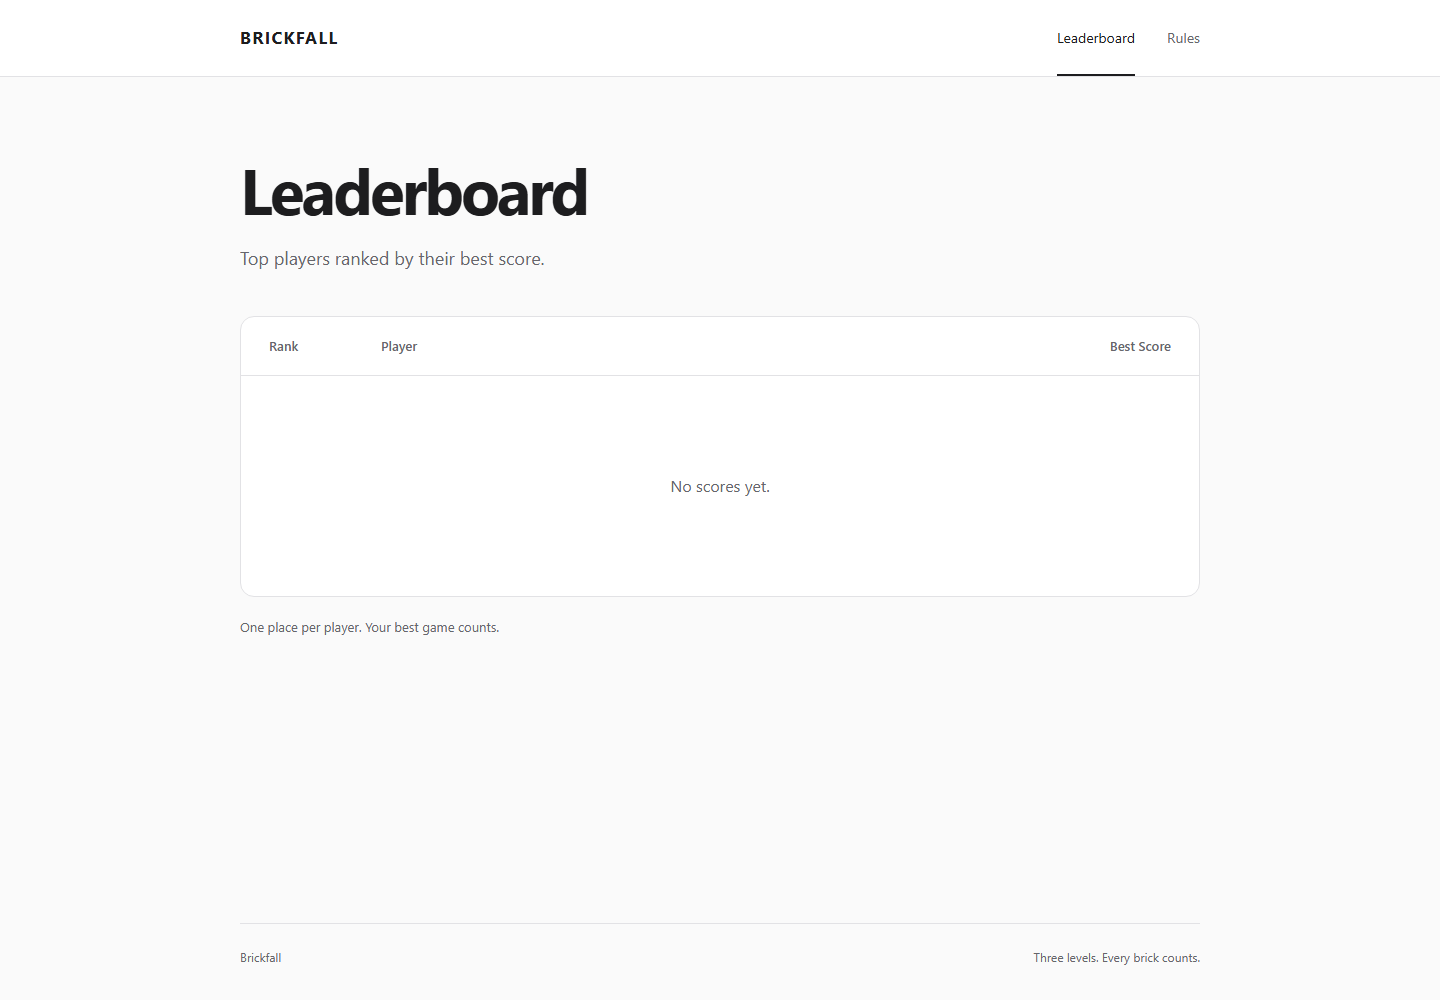
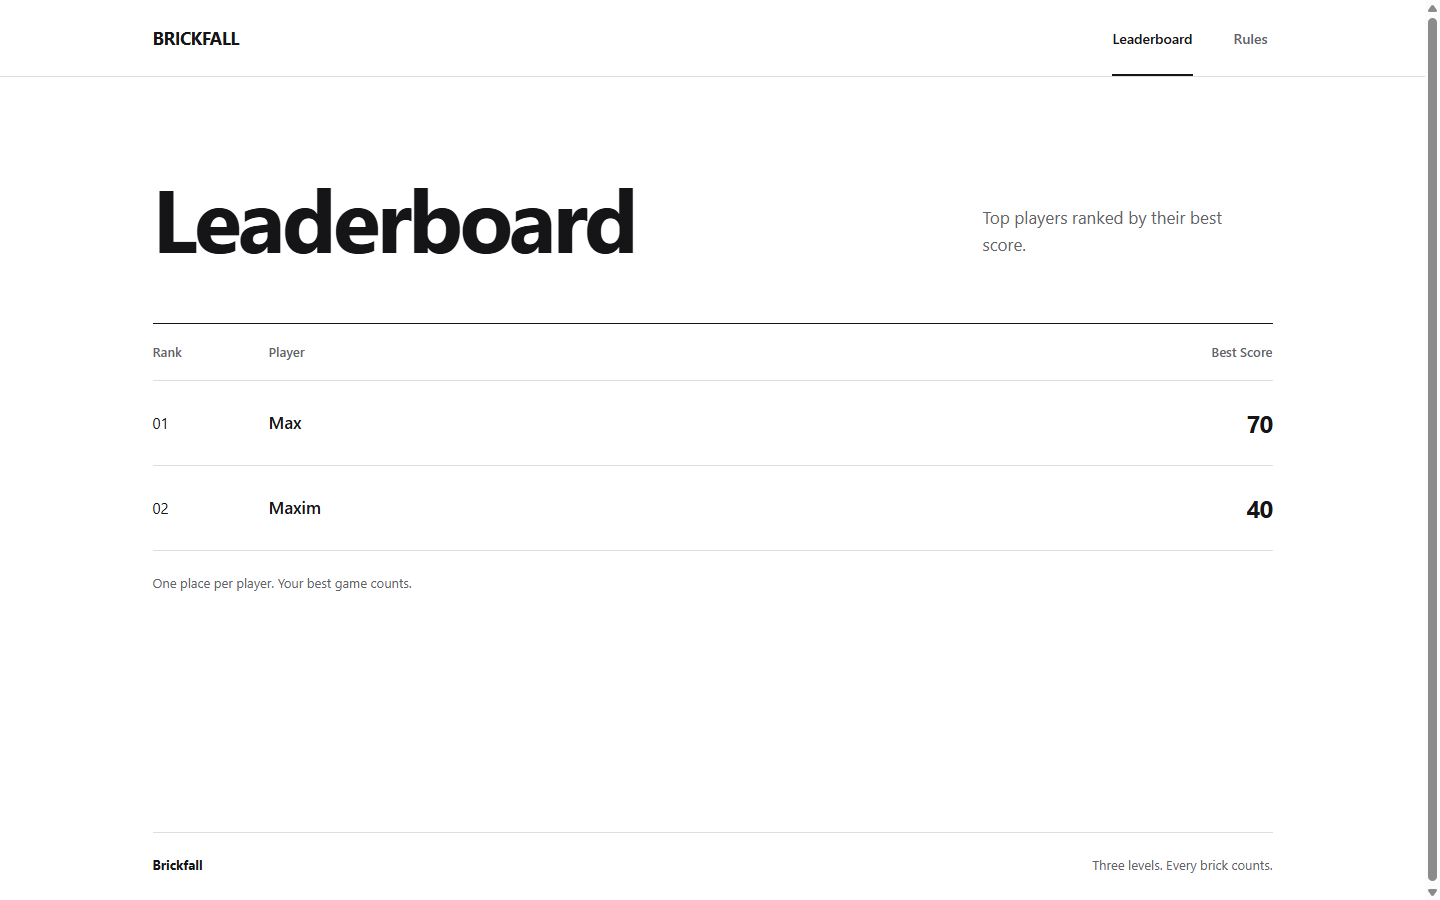
Redesign Brickfall website with minimal responsive layout

diff --git a/static/style.css b/static/style.css
@@ -1,137 +1,154 @@
 :root {
     color-scheme: light;
-    --ink: #1d1d1f;
-    --muted: #66666b;
-    --line: #e2e2e5;
+    --ink: #151517;
+    --muted: #626267;
+    --line: #dedee1;
+    --line-strong: #b9b9bd;
     --paper: #ffffff;
+    --hover: #f5f5f6;
+    --content-width: 1120px;
 }
 
 * { box-sizing: border-box; }
 body {
+    min-width: 280px;
     margin: 0;
-    background: #fafafa;
+    background: var(--paper);
     color: var(--ink);
     font-family: -apple-system, BlinkMacSystemFont, "Segoe UI", Arial, sans-serif;
     font-size: 16px;
-    line-height: 1.6;
+    line-height: 1.5;
     -webkit-font-smoothing: antialiased;
 }
 a { color: inherit; }
-a:focus-visible { outline: 2px solid var(--ink); outline-offset: 5px; border-radius: 2px; }
-.site-header { background: var(--paper); border-bottom: 1px solid var(--line); }
+::selection { background: var(--ink); color: var(--paper); }
+a:focus-visible { outline: 2px solid var(--ink); outline-offset: 4px; border-radius: 2px; }
+.skip-link { position: absolute; top: -60px; left: 24px; z-index: 2; padding: 10px 14px; background: var(--ink); color: var(--paper); }
+.skip-link:focus { top: 12px; }
+.skip-link:focus-visible { outline-color: var(--paper); }
+.visually-hidden { position: absolute; width: 1px; height: 1px; overflow: hidden; clip-path: inset(50%); white-space: nowrap; }
+
+.site-header { border-bottom: 1px solid var(--line); }
 .header-content {
-    max-width: 1040px;
-    min-height: 76px;
-    margin: 0 auto;
-    padding: 0 40px;
     display: flex;
     align-items: center;
     justify-content: space-between;
     gap: 24px;
-}
-.brand { font-size: 17px; font-weight: 700; letter-spacing: .08em; text-decoration: none; }
-nav { display: flex; align-self: stretch; gap: 32px; }
-nav a {
-    display: flex;
-    align-items: center;
-    border-bottom: 2px solid transparent;
-    padding-top: 2px;
-    color: var(--muted);
-    font-size: 14px;
-    text-decoration: none;
-}
-nav a:hover { color: var(--ink); }
-nav a[aria-current="page"] { color: var(--ink); border-bottom-color: var(--ink); }
-main { max-width: 1040px; min-height: calc(100vh - 154px); margin: 0 auto; padding: 76px 40px 96px; }
-.page-heading { margin-bottom: 44px; }
-h1 { margin: 0; font-size: clamp(40px, 6vw, 64px); line-height: 1.12; letter-spacing: -.045em; font-weight: 650; }
-.description { margin: 20px 0 0; color: var(--muted); font-size: 18px; line-height: 1.5; }
-.eyebrow { margin: 0 0 14px; color: var(--muted); font-size: 14px; font-weight: 500; }
-.table-wrap { overflow: hidden; border: 1px solid var(--line); border-radius: 14px; background: var(--paper); }
-table { width: 100%; border-collapse: collapse; }
-th { padding: 19px 28px; color: var(--muted); font-size: 13px; font-weight: 500; text-align: left; }
-td { padding: 23px 28px; border-top: 1px solid var(--line); font-size: 16px; }
-th:first-child, td:first-child { width: 112px; }
-th:last-child, td:last-child { width: 170px; text-align: right; }
-.rank { color: var(--muted); font-variant-numeric: tabular-nums; }
-.score { font-weight: 600; font-variant-numeric: tabular-nums; }
-.top-place .rank, .top-place .player-link { color: var(--ink); font-weight: 600; }
-.place-1 { background: #f0f0f2; }
-.place-2 { background: #f5f5f6; }
-.place-3 { background: #f9f9fa; }
-.player-link { display: inline-block; text-decoration: none; overflow-wrap: anywhere; }
-.player-link:hover { text-decoration: underline; text-underline-offset: 5px; }
-tbody tr:hover { background: #eeeeef; }
-.leaderboard .empty-state { height: 220px; padding: 40px 20px; text-align: center; color: var(--muted); font-size: 16px; }
-.table-note { margin: 20px 0 0; color: var(--muted); font-size: 13px; }
-.site-footer {
-    max-width: 960px;
-    min-height: 78px;
+    max-width: calc(var(--content-width) + 80px);
+    min-height: 76px;
     margin: 0 auto;
-    padding: 24px 0;
-    display: flex;
-    justify-content: space-between;
-    gap: 16px;
-    border-top: 1px solid var(--line);
-    color: var(--muted);
-    font-size: 12px;
+    padding: 0 40px;
 }
-.back-link { display: inline-block; margin-bottom: 34px; color: var(--muted); font-size: 14px; text-decoration: none; }
-.back-link:hover { color: var(--ink); }
-.player-name { overflow-wrap: anywhere; }
-.player-stats { margin: 0; padding: 36px 0; display: grid; grid-template-columns: repeat(3, minmax(0, 1fr)); border-top: 1px solid var(--line); border-bottom: 1px solid var(--line); }
-.player-stats div + div { padding-left: 36px; border-left: 1px solid var(--line); }
-.player-stats dt { color: var(--muted); font-size: 14px; }
-.player-stats dd { margin: 14px 0 0; font-size: 44px; line-height: 1.15; letter-spacing: -.04em; font-weight: 600; font-variant-numeric: tabular-nums; }
-.rules-content { border-top: 1px solid var(--line); }
-.rules-section { padding: 32px 0; display: grid; grid-template-columns: 190px minmax(0, 1fr); gap: 32px; border-bottom: 1px solid var(--line); }
-h2 { margin: 0; font-size: 20px; line-height: 1.5; font-weight: 600; letter-spacing: -.025em; }
-h3 { margin: 0 0 8px; font-size: 16px; font-weight: 600; }
-.rules-content p { margin: 0; color: #515154; }
-.rules-content p + p { margin-top: 14px; }
-.controls { margin: 0; }
-.controls > div { display: grid; grid-template-columns: 180px minmax(0, 1fr); gap: 20px; padding: 0 0 18px; }
-.controls > div:last-child { padding-bottom: 0; }
-.controls dt, .controls dd { margin: 0; font-size: 15px; }
-.controls dd { color: #515154; }
-kbd { display: inline-block; min-width: 27px; padding: 1px 7px; border: 1px solid #d7d7db; border-radius: 5px; background: var(--paper); color: #404043; text-align: center; font: 13px/1.8 -apple-system, BlinkMacSystemFont, "Segoe UI", Arial, sans-serif; }
-.mechanics > div + div { margin-top: 26px; }
-.visually-hidden { position: absolute; width: 1px; height: 1px; overflow: hidden; clip-path: inset(50%); white-space: nowrap; }
-.skip-link { position: absolute; top: -70px; left: 20px; z-index: 1; padding: 9px 16px; background: var(--paper); color: var(--ink); }
-.skip-link:focus { top: 16px; }
+.brand { display: inline-flex; align-items: center; flex: none; min-height: 44px; font-size: 18px; font-weight: 750; letter-spacing: -.03em; line-height: 1; text-decoration: none; }
+nav { display: flex; align-self: stretch; align-items: stretch; gap: 36px; }
+nav a { display: inline-flex; align-items: center; justify-content: center; min-width: 44px; border-bottom: 2px solid transparent; padding: 2px 0 0; color: var(--muted); font-size: 14px; font-weight: 500; text-decoration: none; }
+nav a:hover, nav a[aria-current="page"], nav a.section-current { color: var(--ink); }
+nav a[aria-current="page"], nav a.section-current { border-bottom-color: var(--ink); }
 
-@media (max-width: 700px) {
-    .header-content { min-height: 68px; padding: 0 24px; }
-    main { min-height: calc(100vh - 142px); padding: 52px 24px 68px; }
-    .page-heading { margin-bottom: 32px; }
-    .description { margin-top: 16px; font-size: 16px; }
-    th, td { padding: 20px; }
-    th:first-child, td:first-child { width: 76px; }
-    th:last-child, td:last-child { width: 132px; }
-    .site-footer { min-height: 74px; margin: 0 24px; }
-    .player-stats div + div { padding-left: 20px; }
-    .player-stats dd { font-size: 36px; }
-    .rules-section { grid-template-columns: 1fr; gap: 20px; padding: 28px 0; }
+main {
+    width: 100%;
+    max-width: calc(var(--content-width) + 80px);
+    min-height: calc(100vh - 145px);
+    margin: 0 auto;
+    padding: 96px 40px 112px;
 }
-@media (max-width: 440px) {
-    .header-content { padding: 0 20px; gap: 16px; }
-    .brand { font-size: 14px; letter-spacing: .06em; }
-    nav { gap: 20px; }
+/* Заголовок и пояснение используют одну сетку на всех страницах. */
+.page-heading { display: grid; grid-template-columns: minmax(0, 1fr) minmax(230px, 290px); align-items: end; gap: 40px; margin-bottom: 62px; }
+h1 { min-width: 0; margin: 0; font-size: clamp(54px, 6.6vw, 88px); font-weight: 700; letter-spacing: -.04em; line-height: 1; }
+.description { max-width: 28ch; margin: 0 0 4px; color: var(--muted); font-size: 17px; line-height: 1.55; }
+
+/* Таблица остаётся таблицей и на узком экране. */
+.table-wrap { max-width: 100%; }
+table { width: 100%; border-collapse: collapse; table-layout: fixed; }
+.leaderboard { border-top: 1px solid var(--ink); }
+.leaderboard th { padding: 20px 16px 19px; color: var(--muted); font-size: 13px; font-weight: 500; line-height: 1.3; text-align: left; }
+.leaderboard td { height: 84px; padding: 20px 16px; border-top: 1px solid var(--line); font-size: 17px; line-height: 1.35; vertical-align: middle; }
+.leaderboard tbody tr:last-child { border-bottom: 1px solid var(--line); }
+.leaderboard th:first-child, .leaderboard td:first-child { width: 100px; padding-left: 0; }
+.leaderboard th:last-child, .leaderboard td:last-child { width: 190px; padding-right: 0; text-align: right; }
+.leaderboard .rank { color: var(--muted); font-size: 15px; font-variant-numeric: tabular-nums; }
+.leaderboard .score { font-size: 24px; font-weight: 650; font-variant-numeric: tabular-nums; letter-spacing: -.035em; }
+.leaderboard .top-place .rank { color: var(--ink); }
+.leaderboard .place-1 .score { font-weight: 750; }
+.player-link { display: inline-block; min-width: 44px; max-width: 100%; min-height: 44px; padding: 10px 0; font-weight: 550; overflow-wrap: anywhere; text-decoration: none; text-underline-offset: 5px; }
+.player-link:hover { text-decoration: underline; }
+.leaderboard tbody tr:hover { background: var(--hover); }
+.leaderboard .empty-state { height: 180px; padding: 28px 0; color: var(--muted); font-size: 17px; text-align: center; }
+.table-note { margin: 22px 0 0; color: var(--muted); font-size: 13px; line-height: 1.5; }
+
+.back-link { display: inline-flex; align-items: center; min-height: 44px; margin: -32px 0 54px; color: var(--muted); font-size: 14px; text-decoration: none; text-underline-offset: 4px; }
+.back-link:hover { color: var(--ink); text-decoration: underline; }
+.player-name { overflow-wrap: anywhere; }
+.player-stats { display: grid; grid-template-columns: repeat(3, minmax(0, 1fr)); margin: 0; border-top: 1px solid var(--ink); border-bottom: 1px solid var(--line); }
+.player-stats > div { min-width: 0; padding: 30px 20px 38px 0; }
+.player-stats > div + div { padding-left: 30px; border-left: 1px solid var(--line); }
+.player-stats dt { color: var(--muted); font-size: 14px; }
+.player-stats dd { margin: 22px 0 0; font-size: clamp(36px, 4.1vw, 58px); font-weight: 650; letter-spacing: -.04em; line-height: 1; font-variant-numeric: tabular-nums; overflow-wrap: anywhere; }
+
+.rules-content { border-top: 1px solid var(--ink); }
+.rules-section { display: grid; grid-template-columns: minmax(180px, 28%) minmax(0, 1fr); gap: 36px; padding: 40px 0 44px; border-bottom: 1px solid var(--line); }
+h2 { margin: 0; font-size: 22px; font-weight: 650; letter-spacing: -.04em; line-height: 1.25; }
+h3 { margin: 0 0 10px; font-size: 16px; font-weight: 650; letter-spacing: -.02em; }
+.rules-section > div { max-width: 680px; }
+.rules-content p { max-width: 64ch; margin: 0; color: #454549; font-size: 16px; line-height: 1.65; }
+.rules-content p + p { margin-top: 18px; }
+.controls { margin: 0; }
+.controls > div { display: grid; grid-template-columns: minmax(160px, 210px) minmax(0, 1fr); gap: 20px; padding: 15px 0; border-top: 1px solid var(--line); }
+.controls > div:first-child { padding-top: 0; border-top: 0; }
+.controls > div:last-child { padding-bottom: 0; }
+.controls dt, .controls dd { margin: 0; font-size: 15px; line-height: 1.5; }
+.controls dd { color: #454549; }
+kbd { display: inline-block; min-width: 25px; padding: 1px 6px; border: 1px solid var(--line-strong); border-radius: 4px; background: var(--paper); color: var(--ink); font: 13px/1.55 -apple-system, BlinkMacSystemFont, "Segoe UI", Arial, sans-serif; text-align: center; white-space: nowrap; }
+.mechanics { display: grid; grid-template-columns: repeat(2, minmax(0, 1fr)); gap: 34px; }
+.mechanics > div + div { padding-left: 34px; border-left: 1px solid var(--line); }
+
+.site-footer { display: flex; justify-content: space-between; gap: 16px; max-width: var(--content-width); min-height: 69px; margin: 0 auto; padding: 22px 0; border-top: 1px solid var(--line); color: var(--muted); font-size: 13px; }
+.site-footer span:first-child { color: var(--ink); font-weight: 650; }
+
+@media (max-width: 1200px) {
+    .site-footer { margin-right: 40px; margin-left: 40px; }
+}
+@media (max-width: 760px) {
+    .header-content { min-height: 68px; padding: 0 24px; }
+    main { min-height: calc(100vh - 136px); padding: 68px 24px 88px; }
+    .page-heading { grid-template-columns: 1fr; gap: 24px; margin-bottom: 48px; }
+    .description { max-width: 42ch; font-size: 16px; }
+    .rules-section { grid-template-columns: 1fr; gap: 22px; padding: 34px 0 38px; }
+    .site-footer { margin: 0 24px; }
+}
+@media (max-width: 520px) {
+    .header-content { gap: 14px; padding: 0 20px; }
+    .brand { font-size: 16px; }
+    nav { gap: 22px; }
     nav a { font-size: 13px; }
-    main { padding-right: 20px; padding-left: 20px; }
-    h1 { font-size: 40px; }
-    th, td { padding: 18px 14px; }
-    th { font-size: 12px; }
-    td { font-size: 15px; }
-    th:first-child, td:first-child { width: 58px; }
-    th:last-child, td:last-child { width: 100px; }
-    .site-footer { margin: 0 20px; flex-wrap: wrap; gap: 4px 18px; }
-    .player-stats { grid-template-columns: 1fr; padding: 0; }
-    .player-stats > div { padding: 22px 0; display: flex; justify-content: space-between; align-items: center; gap: 20px; }
-    .player-stats div + div { padding-left: 0; border-left: 0; border-top: 1px solid var(--line); }
-    .player-stats dd { margin: 0; font-size: 32px; }
-    .controls > div { grid-template-columns: 1fr; gap: 6px; padding-bottom: 20px; }
+    main { padding: 58px 20px 76px; }
+    h1 { font-size: clamp(48px, 12vw, 66px); }
+    .page-heading { gap: 18px; margin-bottom: 38px; }
+    .leaderboard th { padding: 15px 8px; font-size: 12px; }
+    .leaderboard td { height: 72px; padding: 14px 8px; font-size: 15px; }
+    .leaderboard th:first-child, .leaderboard td:first-child { width: 52px; }
+    .leaderboard th:last-child, .leaderboard td:last-child { width: 96px; }
+    .leaderboard .rank { font-size: 13px; }
+    .leaderboard .score { font-size: 19px; }
+    .table-note { margin-top: 18px; }
+    .back-link { margin: -26px 0 40px; }
+    .player-stats { grid-template-columns: 1fr; }
+    .player-stats > div { display: flex; align-items: center; justify-content: space-between; gap: 16px; padding: 24px 0; }
+    .player-stats > div + div { padding-left: 0; border-top: 1px solid var(--line); border-left: 0; }
+    .player-stats dt { flex: 1; }
+    .player-stats dd { margin: 0; font-size: 34px; text-align: right; }
+    .controls > div { grid-template-columns: 1fr; gap: 8px; }
+    .mechanics { grid-template-columns: 1fr; gap: 24px; }
+    .mechanics > div + div { padding: 24px 0 0; border-top: 1px solid var(--line); border-left: 0; }
+    .site-footer { flex-wrap: wrap; margin: 0 20px; }
+}
+@media (max-width: 340px) {
+    .header-content { padding: 0 16px; }
+    nav { gap: 14px; }
+    main { padding-right: 16px; padding-left: 16px; }
+    h1 { font-size: 43px; }
+    .site-footer { margin: 0 16px; }
 }
 @media (prefers-reduced-motion: no-preference) {
-    tbody tr, nav a, .back-link { transition: background-color .18s ease, color .18s ease; }
+    nav a, .back-link, .leaderboard tbody tr { transition: color .16s ease, background-color .16s ease; }
 }

diff --git a/templates/base.html b/templates/base.html
@@ -12,7 +12,7 @@
         <div class="header-content">
             <a class="brand" href="/" aria-label="Brickfall home">BRICKFALL</a>
             <nav aria-label="Main navigation">
-                <a href="/" {% if request.url.path == '/' %}aria-current="page"{% endif %}>Leaderboard</a>
+                <a href="/" {% if request.url.path == '/' %}aria-current="page"{% elif request.url.path.startswith('/players/') %}class="section-current"{% endif %}>Leaderboard</a>
                 <a href="/rules" {% if request.url.path == '/rules' %}aria-current="page"{% endif %}>Rules</a>
             </nav>
         </div>

diff --git a/templates/player.html b/templates/player.html
@@ -1,11 +1,10 @@
 {% extends "base.html" %}
 {% block title %}{{ player.name }} · Brickfall{% endblock %}
 {% block content %}
-<a class="back-link" href="/">← Leaderboard</a>
+<a class="back-link" href="/">Back to leaderboard</a>
 <div class="page-heading">
-    <p class="eyebrow">Player profile</p>
     <h1 class="player-name">{{ player.name }}</h1>
-    <p class="description">Every game, at a glance.</p>
+    <p class="description">Results from completed games.</p>
 </div>
 <dl class="player-stats">
     <div><dt>Games played</dt><dd>{{ player.games }}</dd></div>

diff --git a/templates/index.html b/templates/index.html
@@ -19,7 +19,7 @@
                 <td class="score">{{ player.score }}</td>
             </tr>
             {% else %}
-            <tr><td colspan="3" class="empty-state">No scores yet.</td></tr>
+            <tr><td colspan="3" class="empty-state">No completed games yet. Rankings will appear here.</td></tr>
             {% endfor %}
         </tbody>
     </table>
